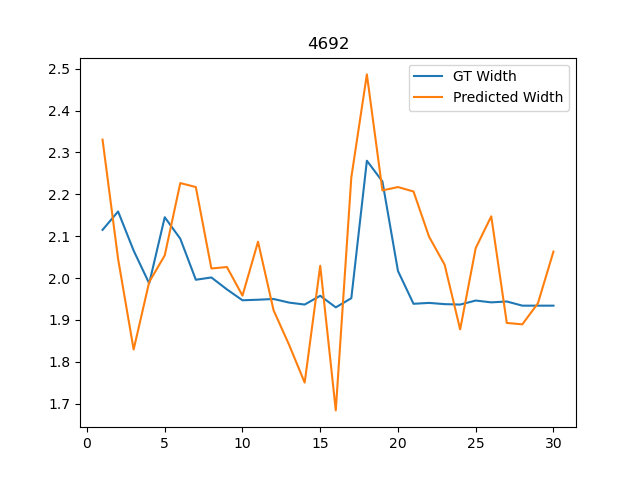
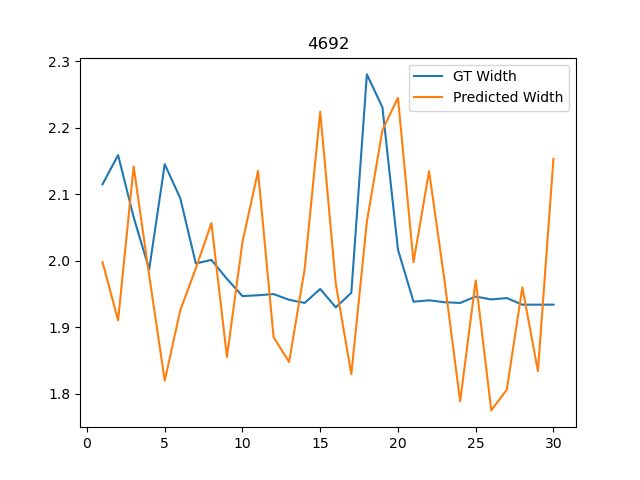
Riguardato.

diff --git a/prediction_dim_vehicle.py b/prediction_dim_vehicle.py
@@ -36,9 +36,12 @@ def variant_set_up():
    #they are the part of the state that we can measure
    C =[[1,0,0,0,0,0],[0,1,0,0,0,0],[0,0,0,0,1,0],[0,0,0,0,0,1]]
 
-   #covariance matrix with the covariance of dimension of the vehicle (0.1 m)
+   #covariance matrix with the covariance of stime dimension of the vehicle (0.1 m)
+   #più è grande il valore meno si è sicuri della stima
    P0 =[[1**2,0,0,0,0,0],[0,1**2,0,0,0,0],[0,0,30**2,0,0,0],[0,0,0,30**2,0,0],[0,0,0,0,0.1**2,0],[0,0,0,0,0,0.1**2]]
 
+   #covariance matrix Q (process noise) it represents the noise in the system (accelleration) i.e it represents
+   # the systematic or random uncertainties that are not explicitly modeled in the system.
    Q = [[(9.81/8)**2,0],[0,(9.81/8)**2]]
 
    # Create covariance matrix R (measurement noise) it represents the noise in the measurements
@@ -99,7 +102,7 @@ def main():
         os.mkdir("dimension_vehicles")
 
     csv_data = m.read_csv_in_folder("dataBB_definitivo_corto.csv")
-    print(csv_data[0])
+    #print(csv_data[0])
     pos0 = pbb.calculate_bounding_box_center(csv_data[0])
     state = m.State(float(pos0[0]), float(pos0[1]))
     length,width =calculate_length_width(csv_data[0])
@@ -130,10 +133,13 @@ def main():
             length,width=calculate_length_width(csv_data[i])
             #posBB_array.append(center_pos)
             #Predict the state
+
             #Calculate A_tilde
             A_tilde = np.block([[A, np.zeros((4, 2))], [np.zeros((2, 4)), np.eye(2)]])
 
             #Calculate Q_tilde
+            #in the previous version of the code the Q_tilde wasn't calculated
+            # because the process rumor in this case is moduled by the matrix B #TODO:(?)
             B_Q_B_t = np.dot(B,np.dot(Q,np.transpose(B)))
             W=np.eye(2,2)*(0.1)**2
             Q_tilde= np.block([[B_Q_B_t,np.zeros((4,2))],[np.zeros((2,4)), W]])
@@ -169,8 +175,8 @@ def main():
             gt_dimention_vehicle_array.append(calculate_length_width(csv_data[i]))
             pred_dimention_vehicle_array.append([dim[4],dim[5]])
         else:
-            print(pred_dimention_vehicle_array)
-            print(gt_dimention_vehicle_array)
+            #print(pred_dimention_vehicle_array)
+            #print(gt_dimention_vehicle_array)
             plot_dimention_vehicle(pred_dimention_vehicle_array,gt_dimention_vehicle_array,time_array,current_label)
             current_label = csv_data[i]['box_label']
             nextBB=calculate_length_width(csv_data[i])
@@ -182,15 +188,3 @@ def main():
             gt_dimention_vehicle_array = []
             time_array = []
             Pkminus1_kminus1 = P0
-
-
-
-
-
-
-
-
-
-
-
-
